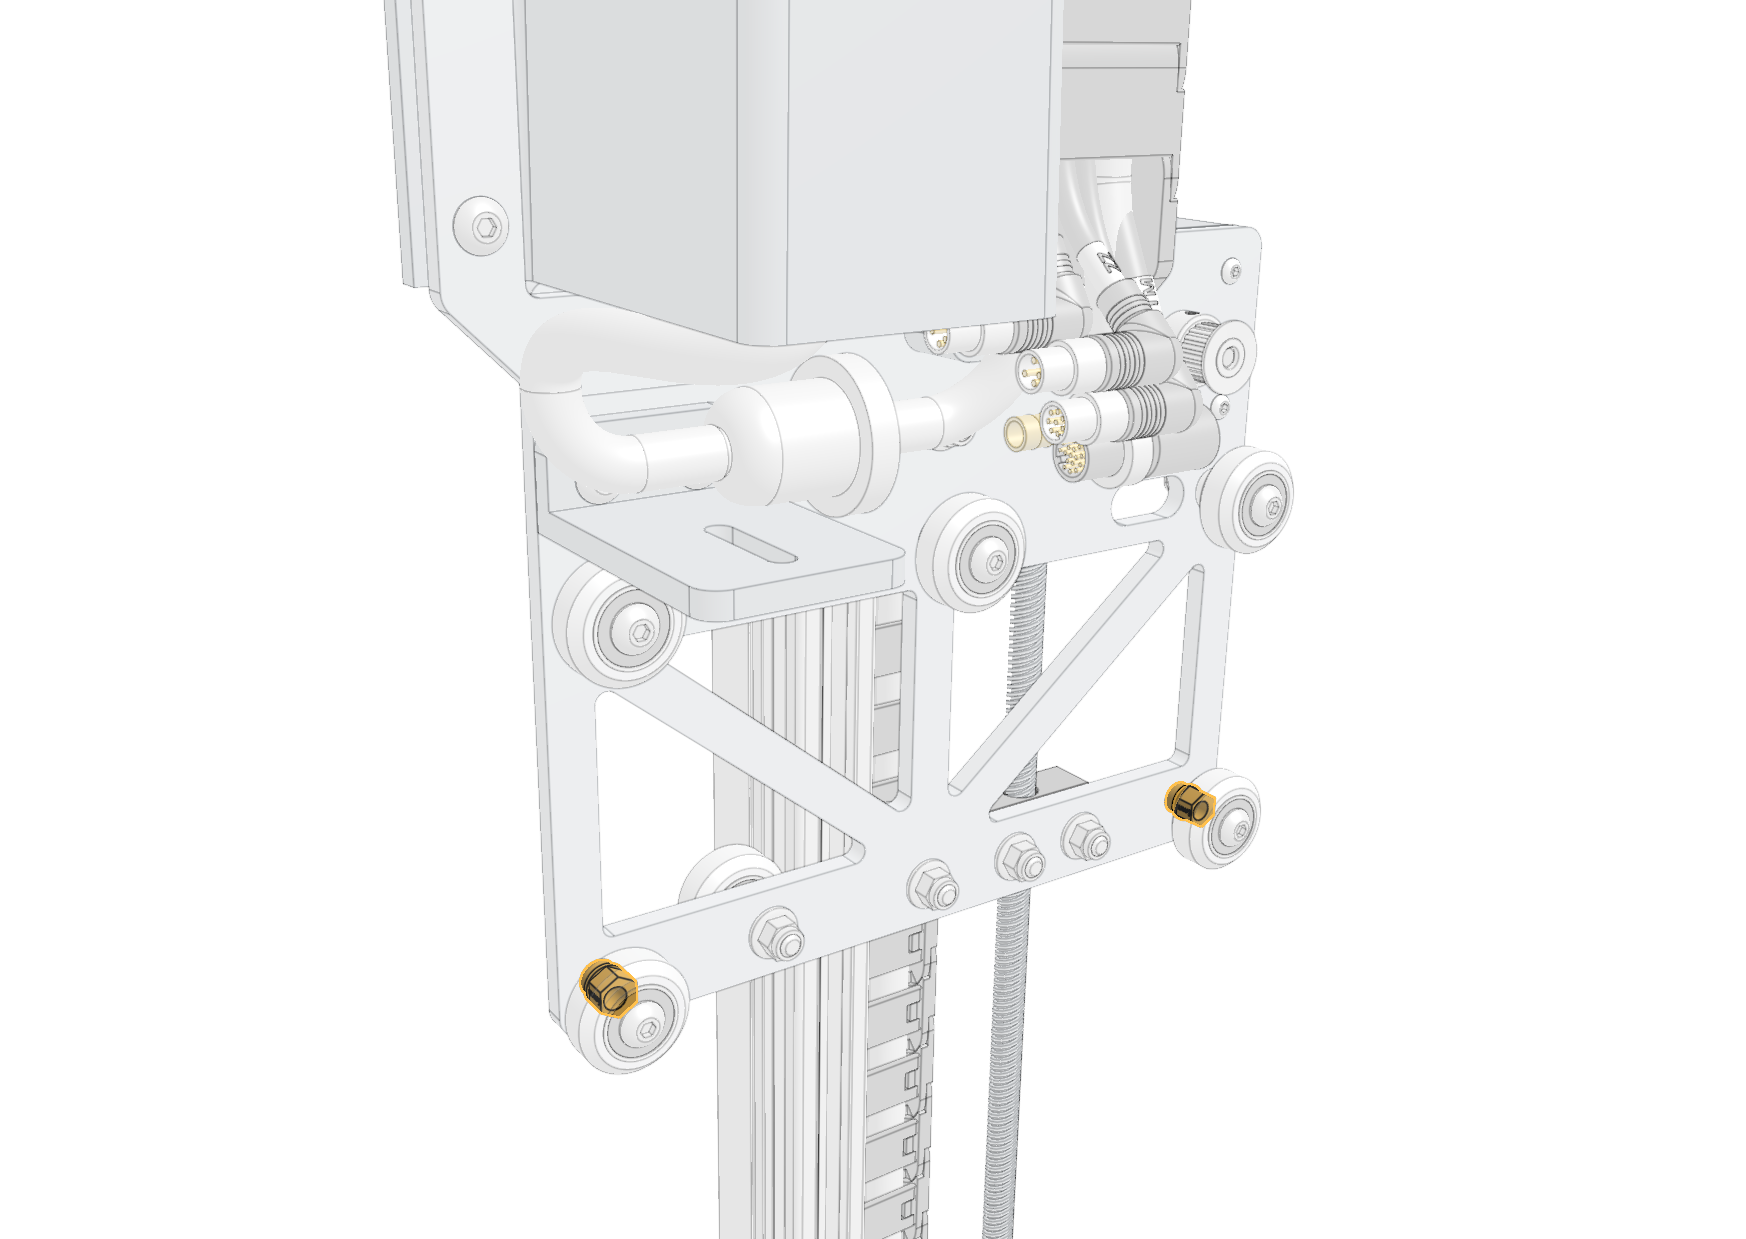
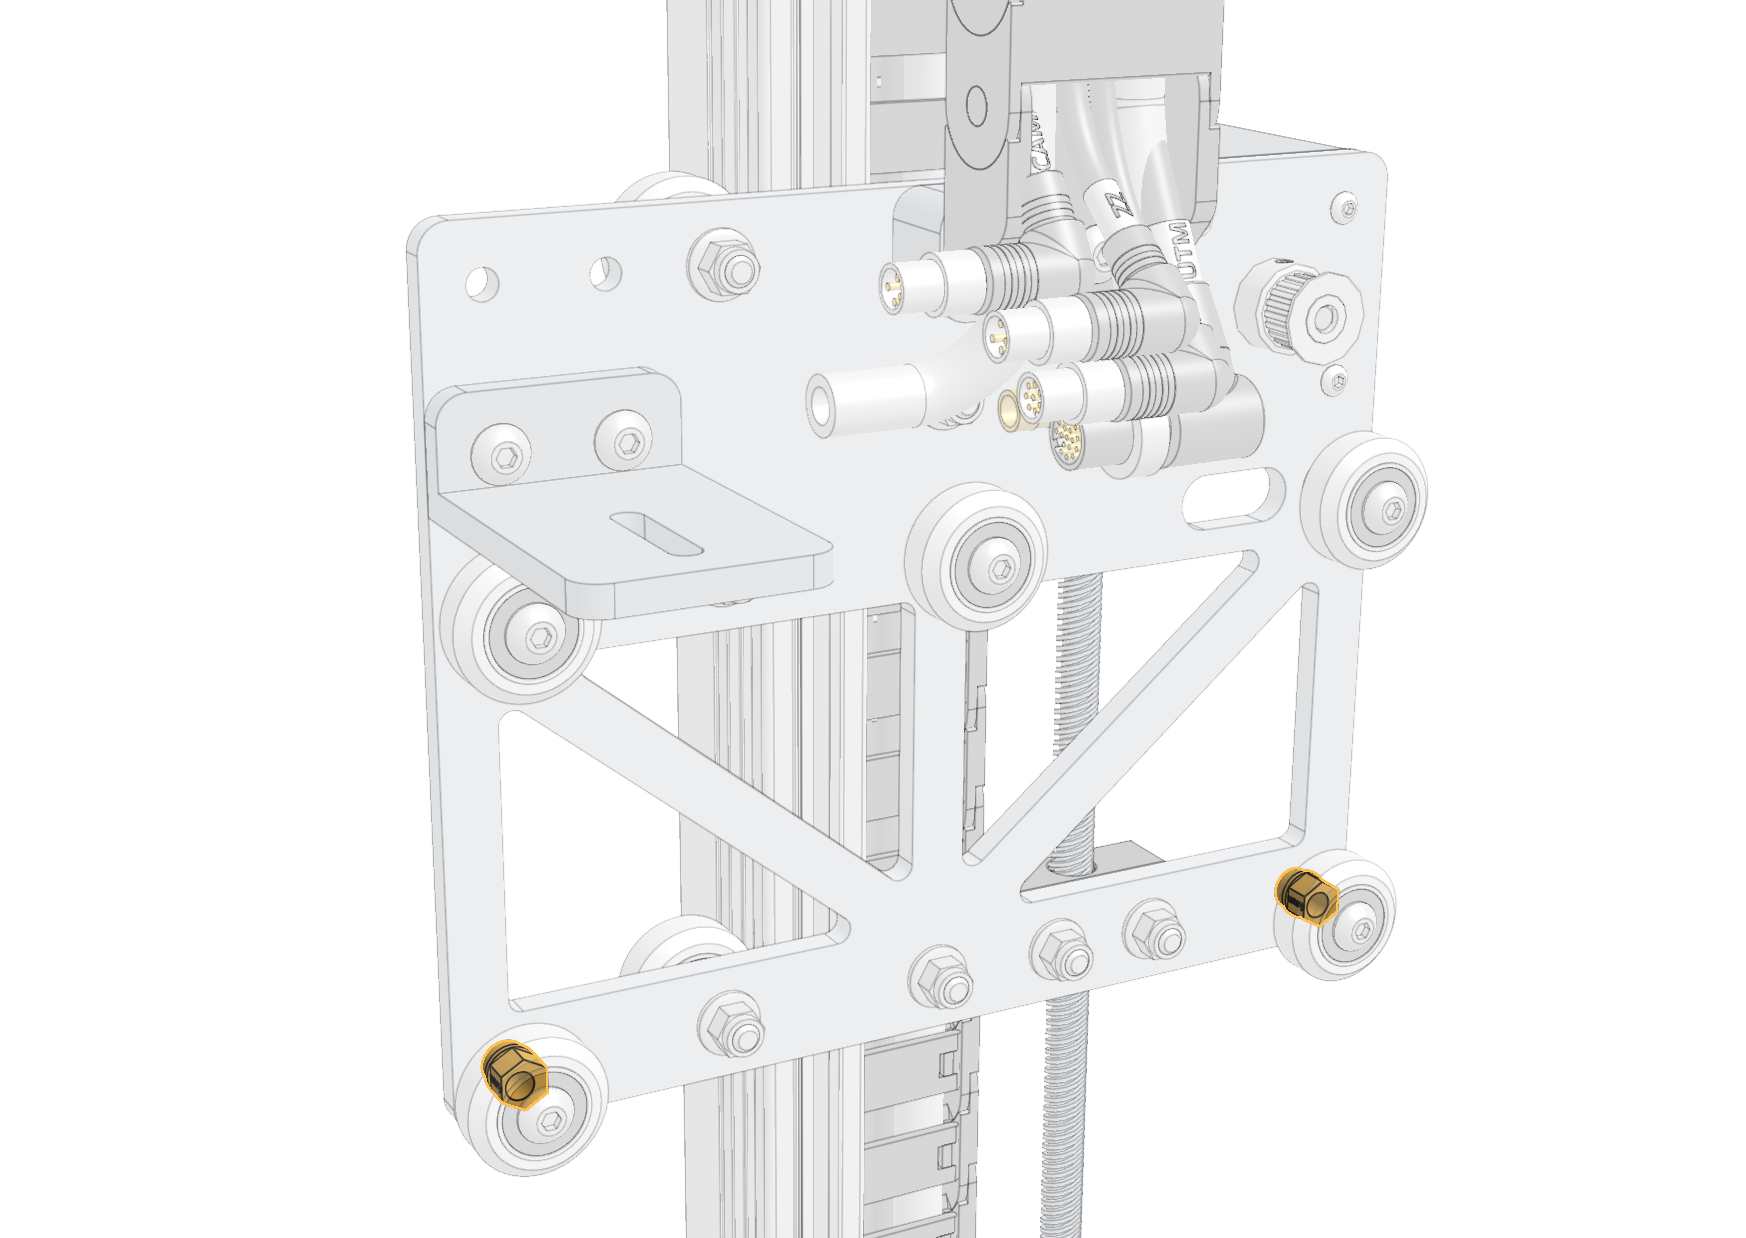
reorder vacuum pump step

diff --git a/v1.8/assembly/cross-slide-and-z-axis.md b/v1.8/assembly/cross-slide-and-z-axis.md
@@ -19,23 +19,7 @@ Attach the [[60mm cable carrier mount]] to the [[cross-slide plate]] using two [
 
 ![Attach the cable carrier mount](_images/cross_slide_cable_carrier_mount.png)
 
-# Step 2: Mount the vacuum pump
-
-Attach the pre-assembled [[vacuum pump]] subassembly to the [[cross-slide plate]] using two [[M5 x 16mm screws]] and [[M5 flange locknuts]].
-
-![Mount the vacuum pump](_images/mount_the_vacuum_pump.png)
-
-Then connect the [[inline air filter]] and [[vacuum tube]] between the pump and the tube coming from the Z-axis cable carrier.
-
-{%
-include callout.html
-type="info"
-content="Ensure you connect the tubing to the **inlet** port of the vacuum pump, as denoted by the arrow pointing up."
-%}
-
-![Connect the inline air filter](_images/inline_air_filter.png)
-
-# Step 3: Slide the cross-slide onto the gantry main beam
+# Step 2: Slide the cross-slide onto the gantry main beam
 
 In order for the cross-slide to slide smoothly and wobble-free on the gantry main beam, you must adjust the [[eccentric spacers]] of the bottom two V-wheels. Adjust the [[eccentric spacers]] using the [eccentric spacer adjustment reference guide](../extras/reference/eccentric-spacer-adjustment.md).
 
@@ -59,7 +43,7 @@ content="The cross-slide should move easily across the full width of the gantry.
 Pay special attention to the joint(s) between the gantry main beam extrusions. If there is any significant bump or resistance to movement at a joint, use **150 grit sand paper** to sand away the bump."
 %}
 
-# Step 4: Feed and secure the belt
+# Step 3: Feed and secure the belt
 
 Secure one end of the *short* [[belt]] to a [[belt clip]] using a [[belt sleeve]] and then attach the clip to the end of the gantry main beam using two [[M5 x 10mm screws]] and a [[20mm nut bar]]. The tab of the belt clip should be oriented towards the front of the FarmBot. Refer to the [belt installation guide](../extras/reference/belt-installation.md) for reference.
 
@@ -79,11 +63,27 @@ Secure the belt at the other end of the gantry with another [[belt clip]], [[20m
 
 ![Secure the other end of the belt](_images/y_axis_belt_end.png)
 
-# Step 5: Attach the cable carrier
+# Step 4: Attach the cable carrier
 
 Lay the [[y-axis cable carrier]] onto the [[extruded 40mm horizontal cable carrier supports]] on the [[gantry main beam]] such that the end with the **90-degree** connectors will connect to the **cross-slide**. Attach the cable carrier to the [[60mm cable carrier mount]] using two [[M5 x 16mm screws]] and [[M5 flange locknuts]]. The screws should thread firmly through the cable carrier end piece.
 
 ![Mount the cable carrier](_images/attach_y_cc.png)
+
+# Step 5: Mount the vacuum pump
+
+Attach the pre-assembled [[vacuum pump]] subassembly to the [[cross-slide plate]] using two [[M5 x 16mm screws]] and [[M5 flange locknuts]].
+
+![Mount the vacuum pump](_images/mount_the_vacuum_pump.png)
+
+Then connect the [[inline air filter]] and [[vacuum tube]] between the pump and the tube coming from the Z-axis cable carrier.
+
+{%
+include callout.html
+type="info"
+content="Ensure you connect the tubing to the **inlet** port of the vacuum pump, as denoted by the arrow pointing up."
+%}
+
+![Connect the inline air filter](_images/inline_air_filter.png)
 
 # Step 6: Connect the water tubing
 
